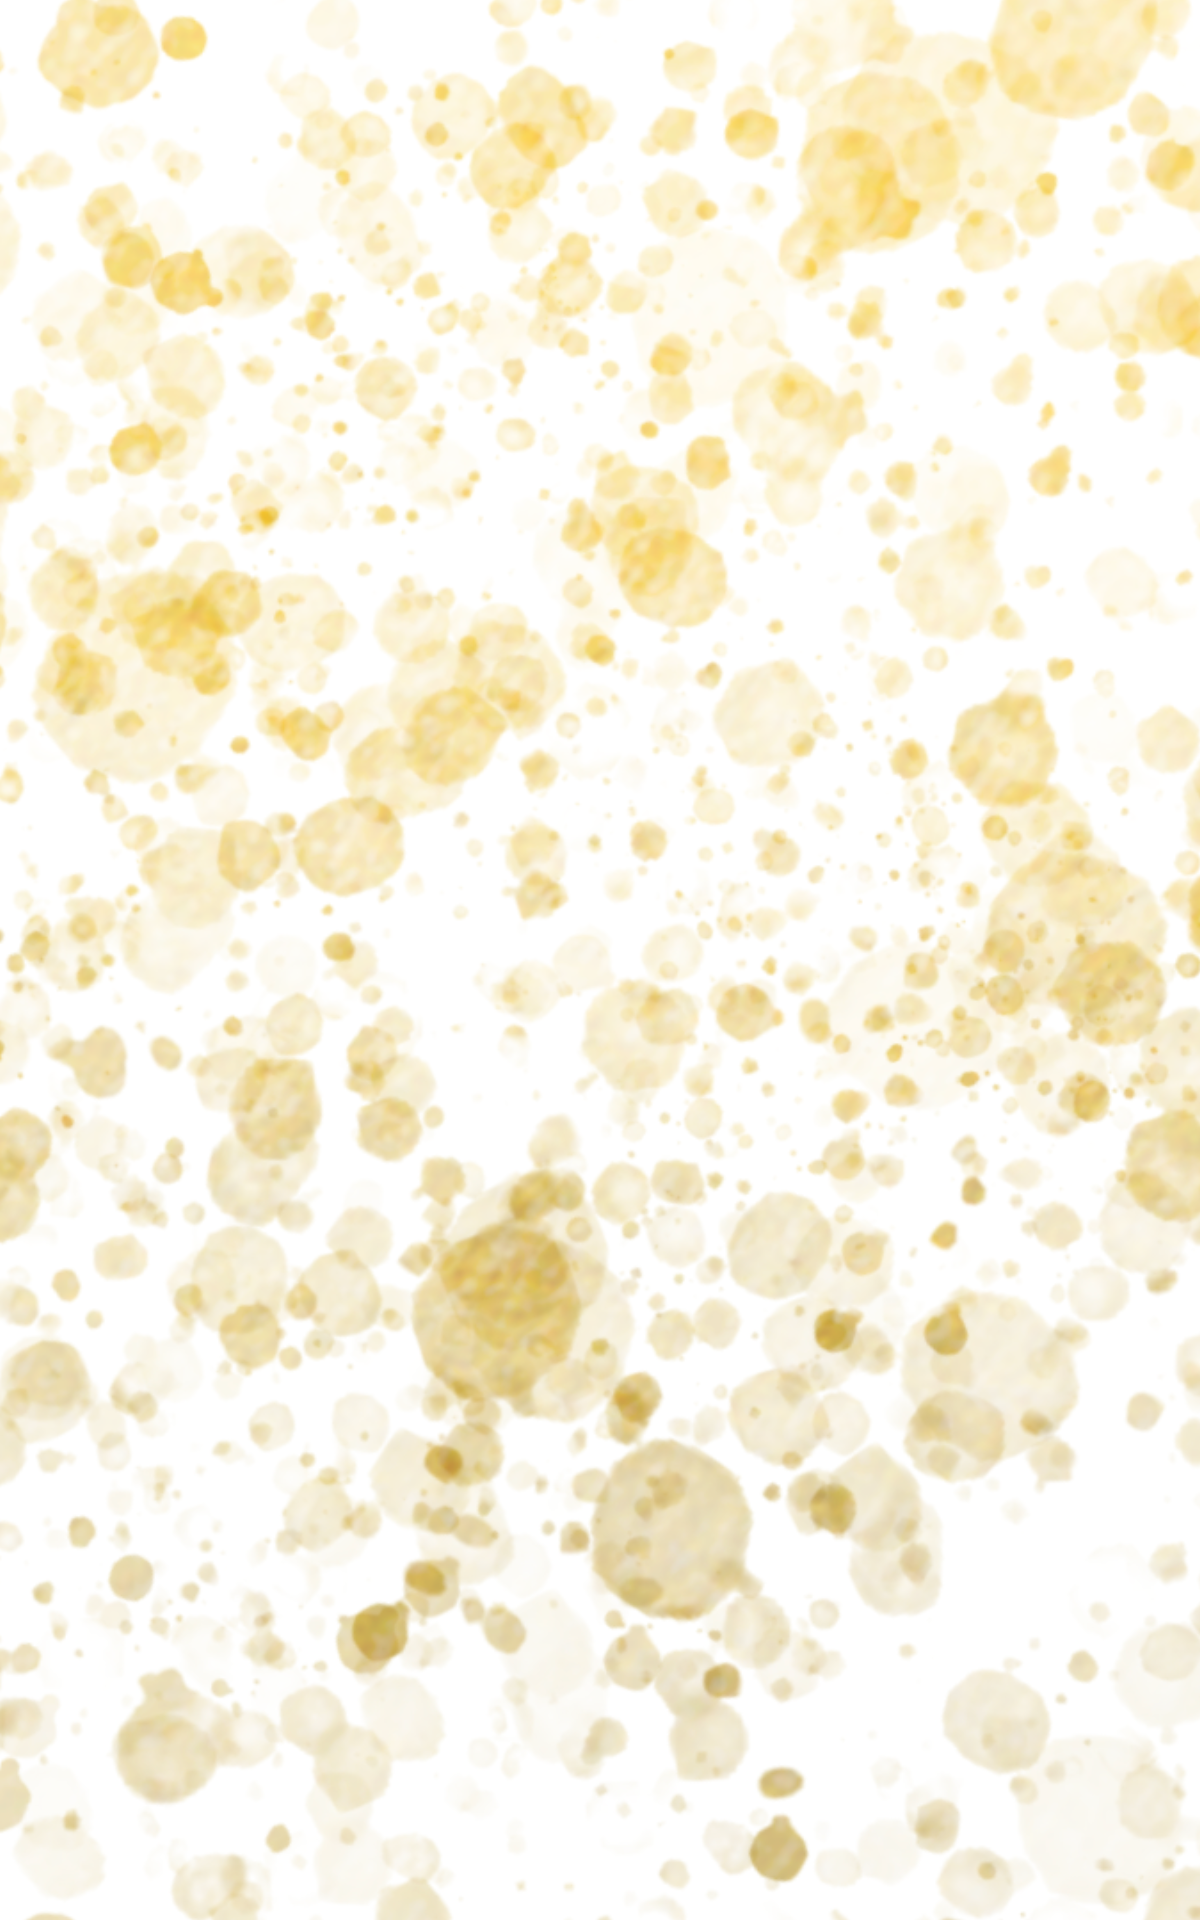
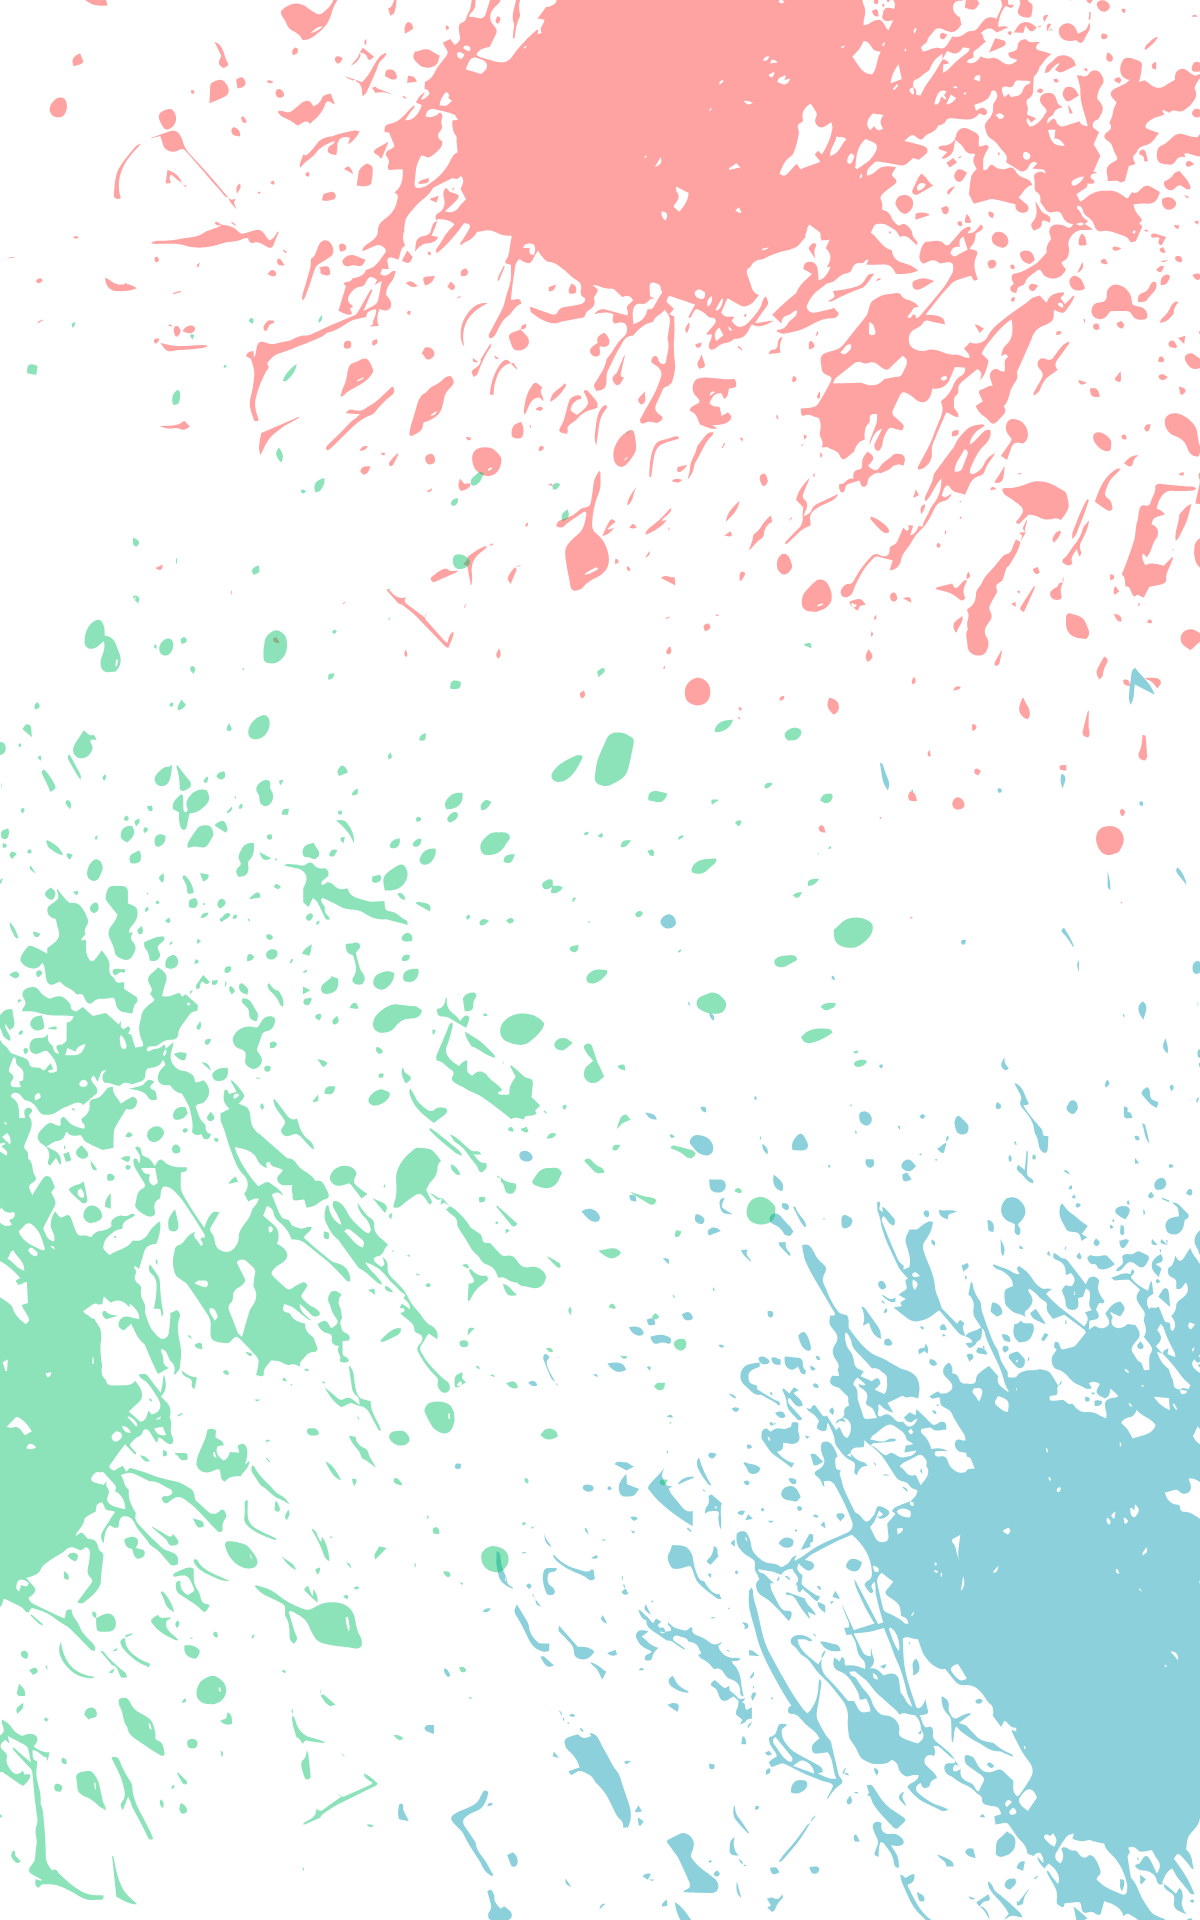
Mundial

diff --git a/frontend/src/components/ProductCard.jsx b/frontend/src/components/ProductCard.jsx
@@ -72,36 +72,25 @@ export default function ProductCard({ product, onClick, user }) {
     <motion.div
       whileHover={{ scale: 1.05 }}
       whileTap={{ scale: 0.97 }}
-      className={`relative rounded-lg transition cursor-pointer overflow-hidden w-full
+      className={`relative rounded-lg transition cursor-pointer overflow-hidden w-full bg-white
         ${isAdmin && product.hidden ? "opacity-60 grayscale" : ""}
         ${isTotalAgotado && (!isAdmin || !product.hidden) ? "opacity-80 grayscale-[30%]" : ""}
         
-        /* 🔥 ESTILO ESPECIAL MUNDIAL: Fondo NEGRO, Borde dorado y resplandor 🔥 */
+        /* 🔥 ESTILO ESPECIAL MUNDIAL: Borde dorado y resplandor, fondo siempre blanco 🔥 */
         ${isMundial 
-          ? "bg-black ring-2 ring-yellow-400 shadow-[0_0_15px_rgba(234,179,8,0.4)] hover:shadow-[0_0_25px_rgba(234,179,8,0.7)]" 
-          : "bg-white shadow-md hover:shadow-lg"
+          ? "ring-2 ring-yellow-400 shadow-[0_0_15px_rgba(234,179,8,0.4)] hover:shadow-[0_0_25px_rgba(234,179,8,0.7)]" 
+          : "shadow-md hover:shadow-lg"
         }
       `}
       onClick={() => onClick(product)}
     >
       
-      
-        {/* 🏆 Etiqueta Mundial */}
-        {isMundial && (
-          <div className="text-black text-center text-xs bottom-3 -left-2 font-extrabold px-3 py-1  shadow-md bg-gradient-to-r from-yellow-300 to-yellow-500 border border-yellow-200">
-            Mundial 2026
-          </div>
-        )}
-      
-
-
-
       {/* ⭐ CONTENEDOR PARA ETIQUETAS APILADAS */}
-      <div className="absolute top-7 left-2 z-20 flex flex-col gap-2 items-start">
+      <div className="absolute top-2 left-2 z-20 flex flex-col gap-2 items-start">
         
         {/* 🔸 Tipo */}
         {product.type && (
-          <div className={`text-xs font-semibold px-3 py-1 rounded-full shadow ${isMundial ? 'bg-black text-yellow-400 border border-yellow-500/30' : 'bg-black text-white'}`}>
+          <div className={`text-xs font-semibold px-3 py-1 rounded-full shadow ${isMundial ? 'bg-yellow-400 text-black border border-yellow-500/30' : 'bg-black text-white'}`}>
             {product.type}
           </div>
         )}
@@ -112,13 +101,11 @@ export default function ProductCard({ product, onClick, user }) {
             ¡Nuevo!
           </div>
         )}
-
-        
       </div>
 
       {/* 🟩 Oferta */}
       {hasDiscount && (
-        <span className="absolute etiqueta-oferta-verde bottom-44 -right-2 text-white font-bold shadow z-10 text-xs sm:text-xs md:text-sm px-2 py-1 md:px-3 md:py-2">
+        <span className="absolute etiqueta-oferta-verde bottom-44 -left-2 text-white font-bold shadow z-10 text-xs sm:text-xs md:text-sm px-2 py-1 md:px-3 md:py-2">
           Oferta
         </span>
       )}
@@ -133,7 +120,7 @@ export default function ProductCard({ product, onClick, user }) {
         </span>
       )}
 
-      {/* Imagen (Fondo ultra oscuro si es mundial) */}
+      {/* Imagen (Fondo gris claro o ultra oscuro si es mundial) */}
       <div className={`relative w-full h-[300px] overflow-hidden ${isMundial ? 'bg-[#0a0a0a]' : 'bg-gray-100'}`}>
         {(() => {
           const screenWidth = window.innerWidth;
@@ -162,6 +149,16 @@ export default function ProductCard({ product, onClick, user }) {
           );
         })()}
 
+        {/* ⭐ Sticker para el Mundial (Esquina Inferior Derecha) ⭐ */}
+        {/* Ajustado: h-20 en móvil, h-32 en tablet, h-36/h-40 en desktop */}
+        {isMundial && (
+          <img
+            src="/sticker.png" 
+            alt="Sticker Mundial"
+            className="absolute bottom-2 right-2 md:bottom-1 md:right-4 h-16 sm:h-36 md:h-36 lg:h-36 w-auto object-contain drop-shadow-[0_10px_15px_rgba(0,0,0,0.5)] z-10 transition-all duration-300"
+          />
+        )}
+
         {/* 🟥 OVERLAY SI ESTÁ AGOTADO */}
         {isTotalAgotado && (
           <div className="absolute inset-0 bg-white/40 backdrop-blur-[1px] z-20 flex items-center justify-center">
@@ -183,27 +180,27 @@ export default function ProductCard({ product, onClick, user }) {
         )}
       </div>
 
-      {/* Info */}
+      {/* Info - SIEMPRE CON FONDO BLANCO Y TEXTO OSCURO */}
       <div className="p-4 text-center flex flex-col items-center justify-between">
         
-        {/* 🔥 TÍTULO (Blanco si es Mundial) */}
-        <h3 className={`text-sm sm:text-base md:text-lg font-extrabold line-clamp-2 ${isMundial ? 'text-white' : 'text-gray-900'}`}>
+        {/* 🔥 TÍTULO (Siempre oscuro) */}
+        <h3 className="text-sm sm:text-base md:text-lg font-extrabold line-clamp-2 text-gray-900">
           {product.name}
         </h3>
 
         {/* Precio */}
         {hasDiscount ? (
           <div className="mt-2 flex flex-col items-center">
-            <p className={`text-sm sm:text-base line-through ${isMundial ? 'text-gray-400' : 'text-gray-700'}`}>
+            <p className="text-sm sm:text-base line-through text-gray-500">
               ₡{Number(product.price).toLocaleString("de-DE")}
             </p>
-            <p className="text-lg sm:text-xl md:text-2xl font-extrabold text-green-500">
+            <p className="text-lg sm:text-xl md:text-2xl font-extrabold text-green-600">
               ₡{Number(product.discountPrice).toLocaleString("de-DE")}
             </p>
           </div>
         ) : (
-          /* 🔥 PRECIO NORMAL (Blanco si es Mundial) */
-          <p className={`mt-2 text-base sm:text-lg md:text-xl font-bold ${isMundial ? 'text-white' : 'text-black'}`}>
+          /* 🔥 PRECIO NORMAL (Siempre oscuro) */
+          <p className="mt-2 text-base sm:text-lg md:text-xl font-bold text-black">
             ₡{Number(product.price).toLocaleString("de-DE")}
           </p>
         )}
@@ -214,31 +211,31 @@ export default function ProductCard({ product, onClick, user }) {
             {/* INVENTARIO */}
             {(stockAgotadas.length > 0 || stockQueda1.length > 0) && (
               <>
-                <p className={`font-bold mt-2 ${isMundial ? 'text-white' : 'text-black'}`}>Tienda #1</p>
+                <p className="font-bold mt-2 text-black">Tienda #1</p>
                 {stockAgotadas.length > 0 && (
-                  <p className="text-red-500">Agotado {stockAgotadas.join(" ")}</p>
+                  <p className="text-red-600">Agotado {stockAgotadas.join(" ")}</p>
                 )}
                 {stockQueda1.length > 0 && (
-                  <p className="text-green-400">Queda 1 {stockQueda1.join(" ")}</p>
+                  <p className="text-green-600">Queda 1 {stockQueda1.join(" ")}</p>
                 )}
               </>
             )}
 
             {(bodegaAgotadas.length > 0 || bodegaQueda1.length > 0) && (
               <>
-                <p className={`font-bold mt-2 ${isMundial ? 'text-white' : 'text-black'}`}>Tienda #2</p>
+                <p className="font-bold mt-2 text-black">Tienda #2</p>
                 {bodegaAgotadas.length > 0 && (
-                  <p className="text-red-500">Agotado {bodegaAgotadas.join(" ")}</p>
+                  <p className="text-red-600">Agotado {bodegaAgotadas.join(" ")}</p>
                 )}
                 {bodegaQueda1.length > 0 && (
-                  <p className="text-green-400">Queda 1 {bodegaQueda1.join(" ")}</p>
+                  <p className="text-green-600">Queda 1 {bodegaQueda1.join(" ")}</p>
                 )}
               </>
             )}
 
             {traspasosUrgentes.length > 0 && (
-              <div className="mt-3 bg-red-900/30 border-l-4 border-red-500 text-red-200 p-2 rounded">
-                <p className="font-bold text-red-400 mb-1">🚨 Traspasos urgentes:</p>
+              <div className="mt-3 bg-red-100 border-l-4 border-red-500 text-red-800 p-2 rounded">
+                <p className="font-bold text-red-700 mb-1">🚨 Traspasos urgentes:</p>
                 <ul className="list-disc pl-5">
                   {traspasosUrgentes.map((t, i) => (
                     <li key={i}>
@@ -250,8 +247,8 @@ export default function ProductCard({ product, onClick, user }) {
             )}
 
             {traspasosSugeridos.length > 0 && (
-              <div className="mt-2 bg-yellow-900/30 border-l-4 border-yellow-500 text-yellow-200 p-2 rounded">
-                <p className="font-bold text-yellow-400 mb-1">📦 Traspasos sugeridos:</p>
+              <div className="mt-2 bg-yellow-50 border-l-4 border-yellow-500 text-yellow-800 p-2 rounded">
+                <p className="font-bold text-yellow-700 mb-1">📦 Traspasos sugeridos:</p>
                 <ul className="list-disc pl-5">
                   {traspasosSugeridos.map((t, i) => (
                     <li key={i}>

diff --git a/frontend/src/components/Header.jsx b/frontend/src/components/Header.jsx
@@ -14,22 +14,29 @@ export default function Header({
 }) {
   return (
     <header
-      className="relative shadow-xl px-4 sm:px-6 py-4 sm:py-6 overflow-hidden min-h-[220px] sm:min-h-[260px] animate-metal-shine flex items-start sm:items-center"
-      style={{
-        background: 'linear-gradient(110deg, #b8860b 0%, #e6be8a 25%, #f7e7ce 50%, #e6be8a 75%, #b8860b 100%)',
-        backgroundSize: '200% auto',
-      }}
+      className="relative shadow-xl px-4 sm:px-6 py-4 sm:py-6 overflow-hidden min-h-[220px] sm:min-h-[260px] animate-solid-color-cycle flex items-start sm:items-center"
     >
       <style>
         {`
-          @keyframes metalShine {
-            0% { background-position: 0% center; }
-            100% { background-position: 200% center; }
-          }
-          .animate-metal-shine {
-            animation: metalShine 8s linear infinite;
+          /* 🔥 ANIMACIÓN DE COLORES SÓLIDOS (Sin colores intermedios) 🔥 */
+          @keyframes solidColorCycle {
+            /* Celeste Oscuro */
+            0%, 32% { background-color: #0e77c8; }
+            /* Salto a Verde */
+            33%, 65% { background-color: #0a9434; }
+            /* Salto a Rojo Oscuro */
+            66%, 99% { background-color: #7b1f09; }
+            /* Salto de vuelta a Celeste */
+            100% { background-color: #0e77c8; }
           }
 
+          .animate-solid-color-cycle {
+            /* Ciclo de 15 segundos (aprox. 5s por color) con cambio "step" */
+            animation: solidColorCycle 15s step-end infinite; 
+            background-color: #0e77c8; /* Color inicial */
+          }
+
+          /* Efecto de destello de luz sutil cruzando el header */
           .shimmer-overlay::after {
             content: "";
             position: absolute;
@@ -44,7 +51,7 @@ export default function Header({
               transparent
             );
             transform: skewX(-25deg);
-            animation: shimmer 5s infinite;
+            animation: shimmer 6s infinite;
           }
 
           @keyframes shimmer {
@@ -68,13 +75,13 @@ export default function Header({
           <img
             src={logo}
             alt="Logo Chemas Sport"
-            className="h-12 sm:h-20 transition-transform duration-300 hover:scale-110 drop-shadow-lg"
+            className="h-12 sm:h-20 transition-transform duration-300 hover:scale-110 drop-shadow-md" 
           />
         </button>
 
-        {/* Título Centrado Absoluto (Funciona en PC y Celular) */}
+        {/* Título Centrado Absoluto */}
         <div className="absolute left-1/2 top-1/2 transform -translate-x-1/2 -translate-y-1/2 w-full pointer-events-none px-4">
-          <h1 className="text-xl sm:text-3xl font-black tracking-tighter text-black uppercase drop-shadow-md text-center pointer-events-auto">
+          <h1 className="text-xl sm:text-3xl font-black tracking-tighter text-white uppercase drop-shadow-[0_2px_4px_rgba(0,0,0,0.8)] text-center pointer-events-auto">
             ChemaSport ER
           </h1>
         </div>
@@ -93,7 +100,7 @@ export default function Header({
           ) : (
             <button
               onClick={onLoginClick}
-              className="rounded-full p-2.5 sm:p-3 shadow-2xl transition-all duration-300 bg-black text-white hover:bg-zinc-900 border border-yellow-500/50"
+              className="rounded-full p-2.5 sm:p-3 shadow-xl transition-all duration-300 bg-black text-white hover:bg-zinc-800 border-none"
             >
               <FaUser size={16} className="sm:w-[18px] sm:h-[18px]" />
             </button>

diff --git a/frontend/src/components/TopBanner.jsx b/frontend/src/components/TopBanner.jsx
@@ -3,8 +3,9 @@ import React, { useEffect, useState } from "react";
 function TopBanner() {
   const messages = [
     "STOCK DE +4000 CHEMAS",
-    "REGALAMOS CHEMAS LOS VIERNES EN NUESTRO CHEMAFEST",
-    "METODOS DE PAGO SINPE, TRANSFERENCIA, EFECTIVO Y PAGO CON TARJETA",
+    "REGALAMOS CHEMAS LOS VIERNES EN EL CHEMAFEST",
+    "METODOS DE PAGO SINPE, TRANSFERENCIA,",
+    "EFECTIVO Y PAGO CON TARJETA",
     "SOMOS CHEMASPORT ER",
   ];
   const [currentIndex, setCurrentIndex] = useState(0);